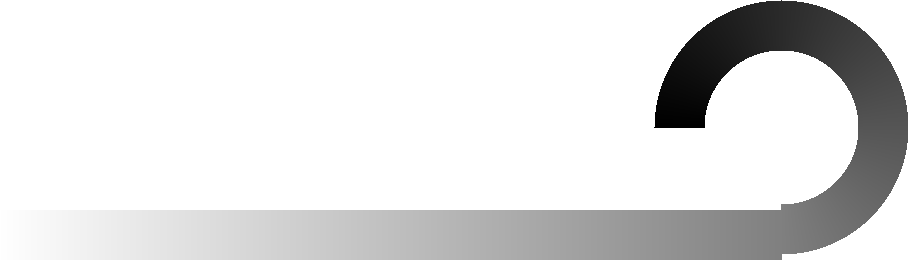
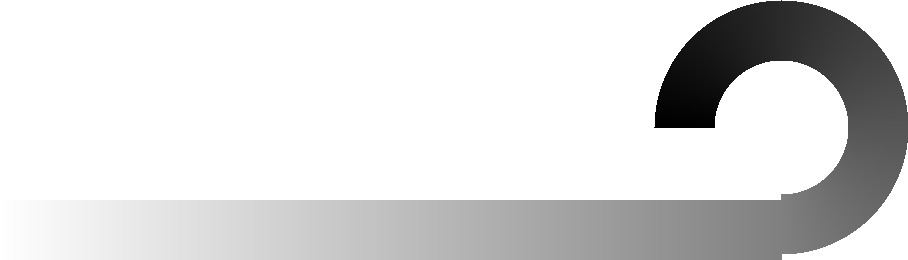
attempted to make a fixed end of hp outline

Changed region(s): [[0.1542, 0.1846, 0.9559, 0.8308]]

diff --git a/src/main/java/online/kingdomkeys/kingdomkeys/client/gui/overlay/PlayerPortraitGui.java b/src/main/java/online/kingdomkeys/kingdomkeys/client/gui/overlay/PlayerPortraitGui.java
@@ -101,36 +101,7 @@ public class PlayerPortraitGui extends OverlayBase {
                             render2D(poseStack);
                         }
                     } else {
-                        poseStack.pushPose();
-                        {
-                            int sizeX = 1, sizeY = 1;
-                            if (player.getVehicle() instanceof GummiShipEntity ship) {
-                                Vec3i size = getCachedGummiSize(ship);
-                                sizeX = size.getX();
-                                sizeY = size.getY();
-                                if (ship.structure != null) {
-                                    scale = 11f / Math.max(sizeX, sizeY);
-                                }
-                            }
-
-                            float baseX = 46;
-                            float baseY = -15;
-
-                            if(sizeX % 2 == 0){
-                                baseX -= 2;
-                            }
-                            float offsetX = baseX - (sizeX * scale) / 2f;
-                            int missingY = 13 - sizeY;
-                            float offsetY = baseY - missingY;
-                            scale *= 1.4F;
-
-                            poseStack.mulPose(Axis.YP.rotationDegrees(180));
-                            poseStack.translate(offsetX, offsetY, 0);
-                            poseStack.scale(scale, scale, scale);
-
-                            ClientUtils.renderEntity(poseStack, 0, 0, 2, 0,0, player.getVehicle());
-                        }
-                        poseStack.popPose();
+                        renderShip(poseStack, scale);
                     }
 					player.getInventory().setItem(player.getInventory().selected, stack);
 				}
@@ -139,6 +110,41 @@ public class PlayerPortraitGui extends OverlayBase {
 			poseStack.popPose();
 		}
 	}
+
+    private void renderShip(PoseStack poseStack, float scale) {
+        poseStack.pushPose();
+        {
+            Player player = Minecraft.getInstance().player;
+
+            int sizeX = 1, sizeY = 1;
+            if (player.getVehicle() instanceof GummiShipEntity ship) {
+                Vec3i size = getCachedGummiSize(ship);
+                sizeX = size.getX();
+                sizeY = size.getY();
+                if (ship.structure != null) {
+                    scale = 11f / Math.max(sizeX, sizeY);
+                }
+            }
+
+            float baseX = 46;
+            float baseY = -15;
+
+            if(sizeX % 2 == 0){
+                baseX -= 2;
+            }
+            float offsetX = baseX - (sizeX * scale) / 2f;
+            int missingY = 13 - sizeY;
+            float offsetY = baseY - missingY;
+            scale *= 1.4F;
+
+            poseStack.mulPose(Axis.YP.rotationDegrees(180));
+            poseStack.translate(offsetX, offsetY, 0);
+            poseStack.scale(scale, scale, scale);
+
+            ClientUtils.renderEntity(poseStack, 0, 0, 2, 0,0, player.getVehicle());
+        }
+        poseStack.popPose();
+    }
 
     private void render2D(PoseStack poseStack) {
         ResourceLocation skin = minecraft.player.getSkin().texture();

diff --git a/src/main/java/online/kingdomkeys/kingdomkeys/client/gui/overlay/HPGui.java b/src/main/java/online/kingdomkeys/kingdomkeys/client/gui/overlay/HPGui.java
@@ -52,7 +52,14 @@ public class HPGui extends OverlayBase {
 		float maxMaxHealth = 180; //maybe config value or something?
 		float healthPercentage = health / maxMaxHealth;
 		float maxHealthPercentage = maxHealth / maxMaxHealth;
-        float maxHealthPercentageOutline = (maxHealth+1) / (maxMaxHealth);
+        float healthPercent = maxHealth / maxMaxHealth;
+
+        float minExtra = 0.01F;
+        float maxExtra = 0.004F;
+        float exponent = 2.5F;
+
+        float extra = minExtra + (maxExtra - minExtra) * (1 - (float)Math.pow(healthPercent, exponent));
+        float maxHealthPercentageOutline = maxHealthPercentage + extra;
 
         if (realPlayerHP == 0) {
             realPlayerHP = health;
@@ -199,7 +206,7 @@ public class HPGui extends OverlayBase {
 
     private void drawHPOutline(PoseStack poseStack, float maxHealthPercentage) {
         poseStack.pushPose();
-        int barWidth = 908;
+        int barWidth = 909;
         int barHeight = 254;
 
         RenderSystem.setShaderTexture(0, ResourceLocation.fromNamespaceAndPath(KingdomKeys.MODID, "textures/gui/hp_outline.png"));

diff --git a/unusedResources/kk hp.py b/unusedResources/kk hp.py
@@ -9,7 +9,7 @@ WIDTH  = 908
 HEIGHT = 260
 
 RADIUS = 127
-THICKNESS = 50
+THICKNESS = 60
 ARC_DEGREES = 270
 
 # Arc center at upper-right area
